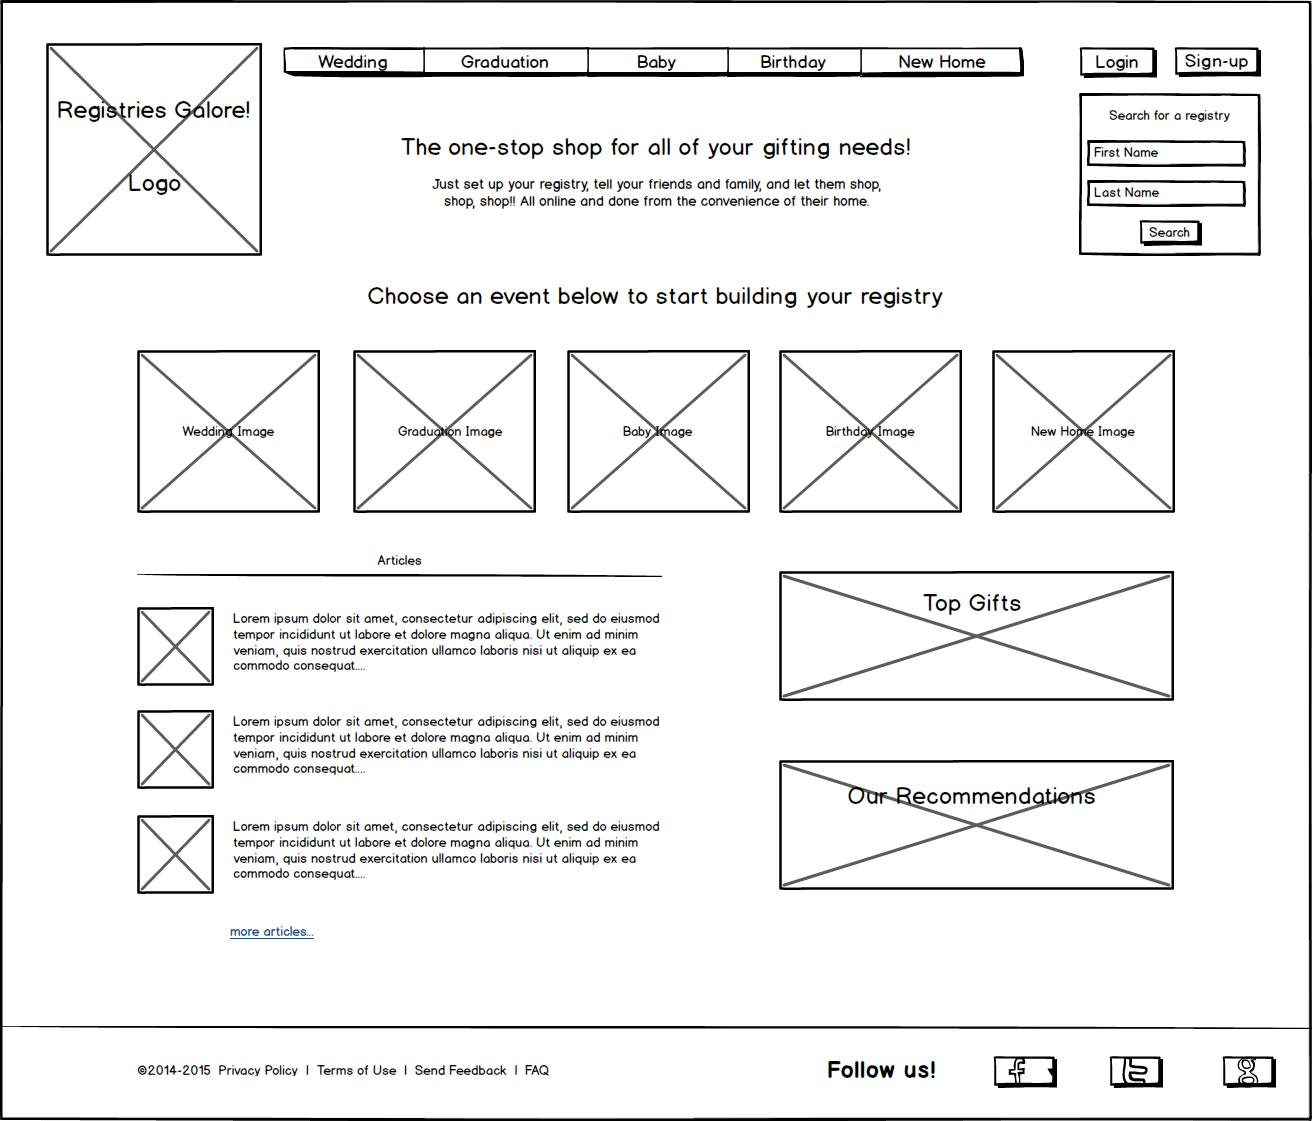
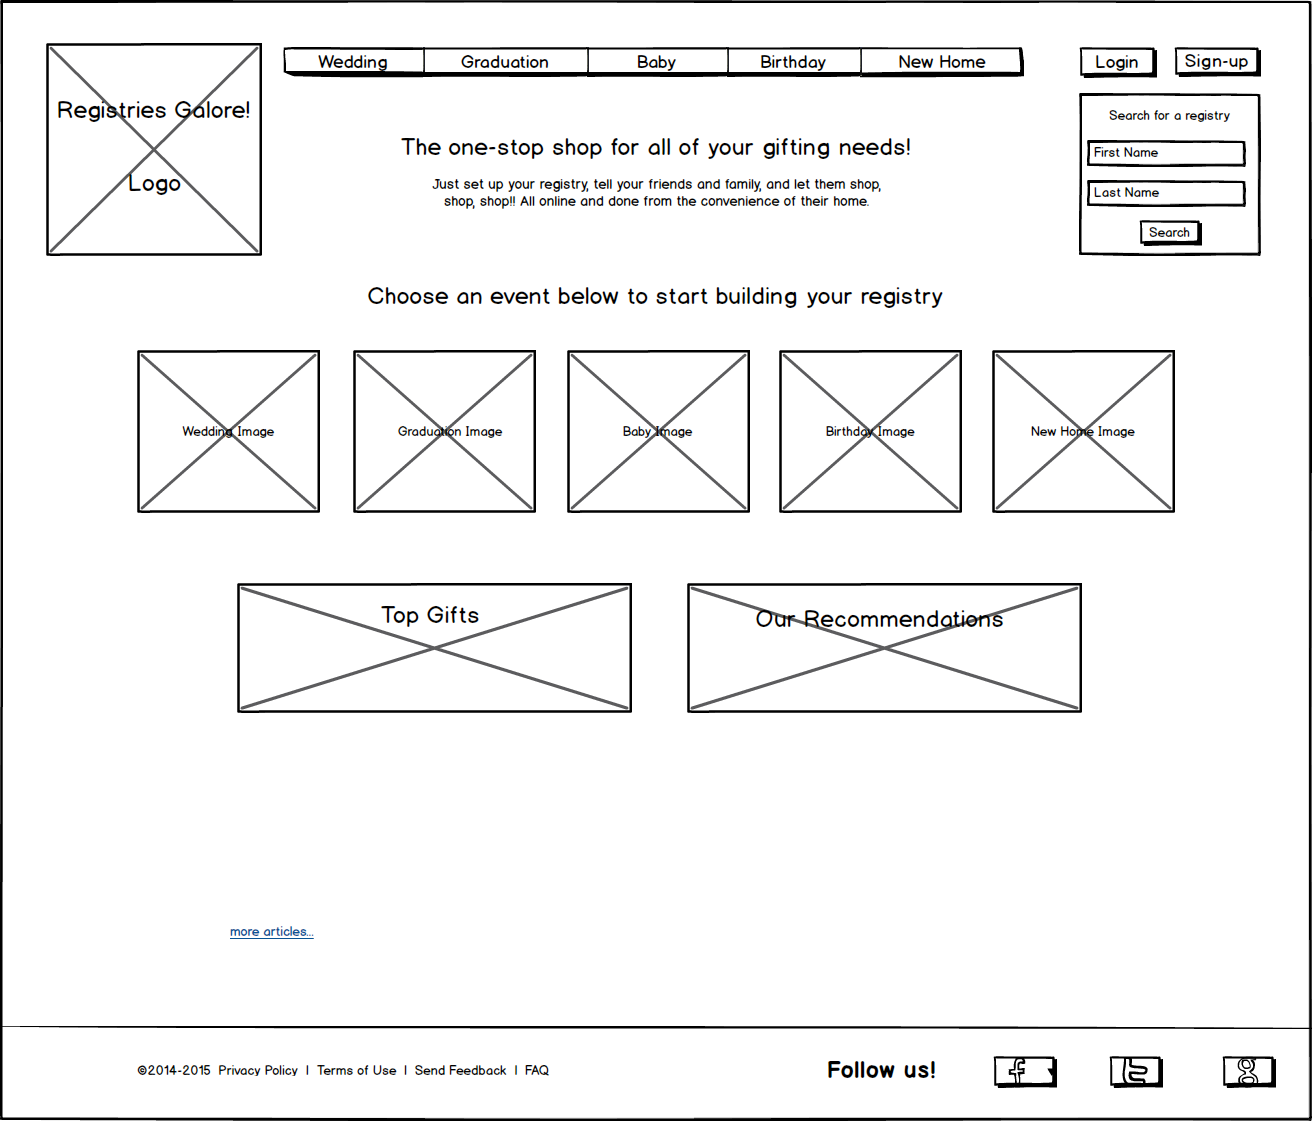
restart RG

diff --git a/unit6/index.html b/unit6/index.html
@@ -4,20 +4,18 @@
 
 <head>
 	<title>Registries Galore!</title>
+	<link rel="stylesheet" type="text/css" href="css/style.css">
 	<link rel="stylesheet" type="text/css" href="css/reset.css">
 </head>
 
 <body>
-	<header>
-	<img src="https://raw.githubusercontent.com/timweyel/timweyel.github.io/master/unit6/images/logo.jpg" alt="Registries Galore!" title="Registries Galore logo">
-	<nav>
-		<a href="#">Wedding</a>
-		<a href="#">Graduation</a>
-		<a href="#">Baby</a>
-		<a href="#">Birthday</a>
-		<a href="#">New Home</a>
-	</nav>
-	</header>
+	<div id="logo">
+			<img src="https://raw.githubusercontent.com/timweyel/timweyel.github.io/master/unit6/images/logo.jpg" alt="Registries Galore!" title="Registries Galore logo">
+	</div>
+
+	<h1>The one-stop shop for all of your gifting needs!</h1>
+	
+	<p>Just set up your registry, tell your friends and family, and let them shop, shop, shop!! All online and done from the convenience of their home.</p>
 </body>
 
 </html>

diff --git a/unit6/css/style.css b/unit6/css/style.css
@@ -1,34 +1,10 @@
-@import url(http://fonts.googleapis.com/css?family=Lobster);
-
-body {
-	text-align: center;
-	background: url("http://amsterdambrewhouse.com/wp-content/uploads/2014/06/northlounge1.jpg");
-	background-size: cover !important;	
-	background-repeat: no-repeat;
-	color: #fff;
-	font-family: Helvetica;
-
-}
-
 h1 {
-	color: #FFFFFF;
-	font-family: 'Lobster';
-}
-
-hr {
-	width: 200px;
-}
-
-#slogan {
-	font-style: italic;
-}
-
-#footer {
-	position: absolute;
-	left: 0;
-	bottom: 0;
-	height: 100px;
-	width: 100%;
 	text-align: center;
-	line-height:100px;
+}
+
+#logo {
+	margin: 20px 0 0 20px;
+/*	float: left;
+	background-color: #009900;*/
+	width: 280px;
 }
